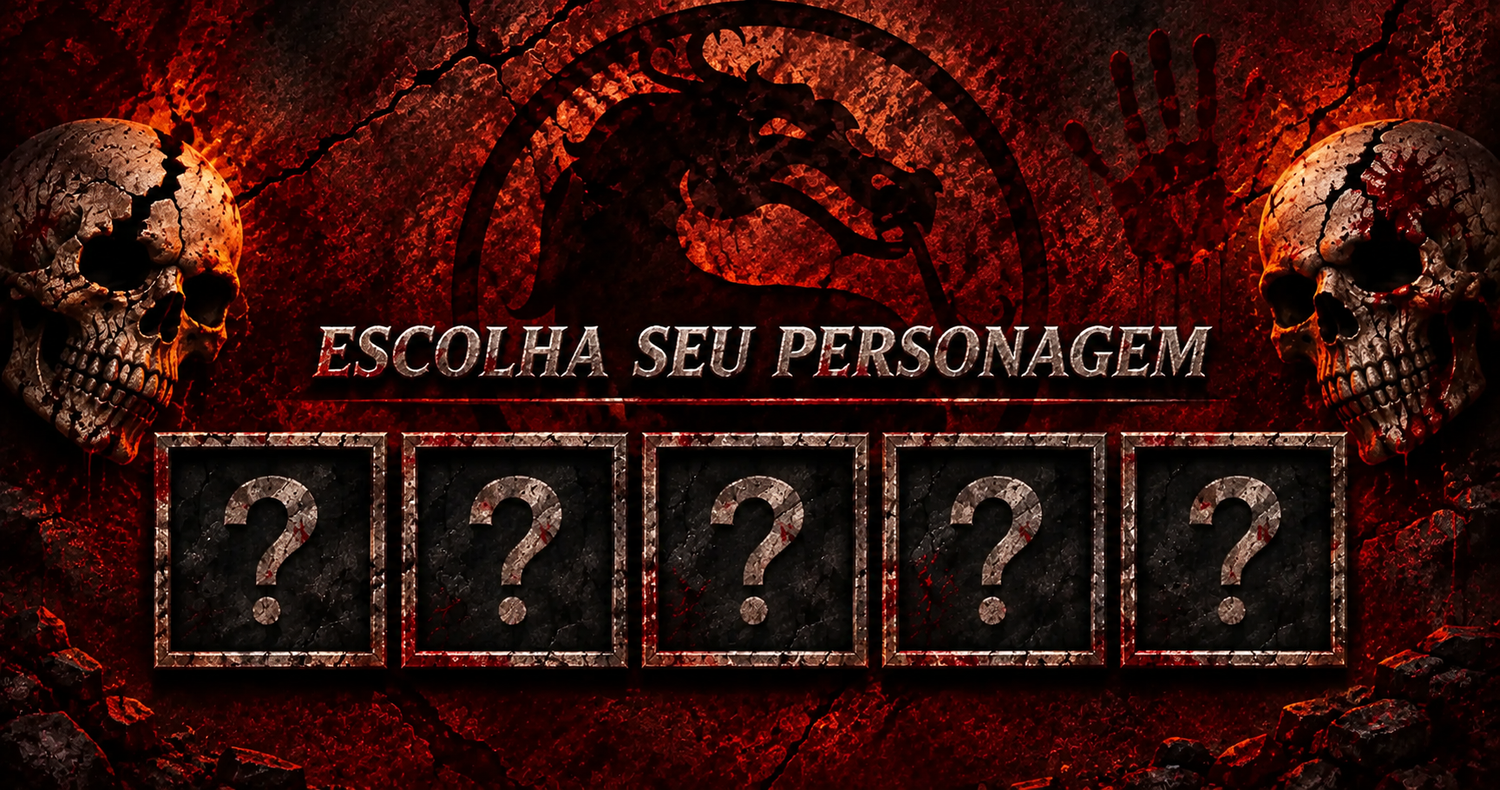
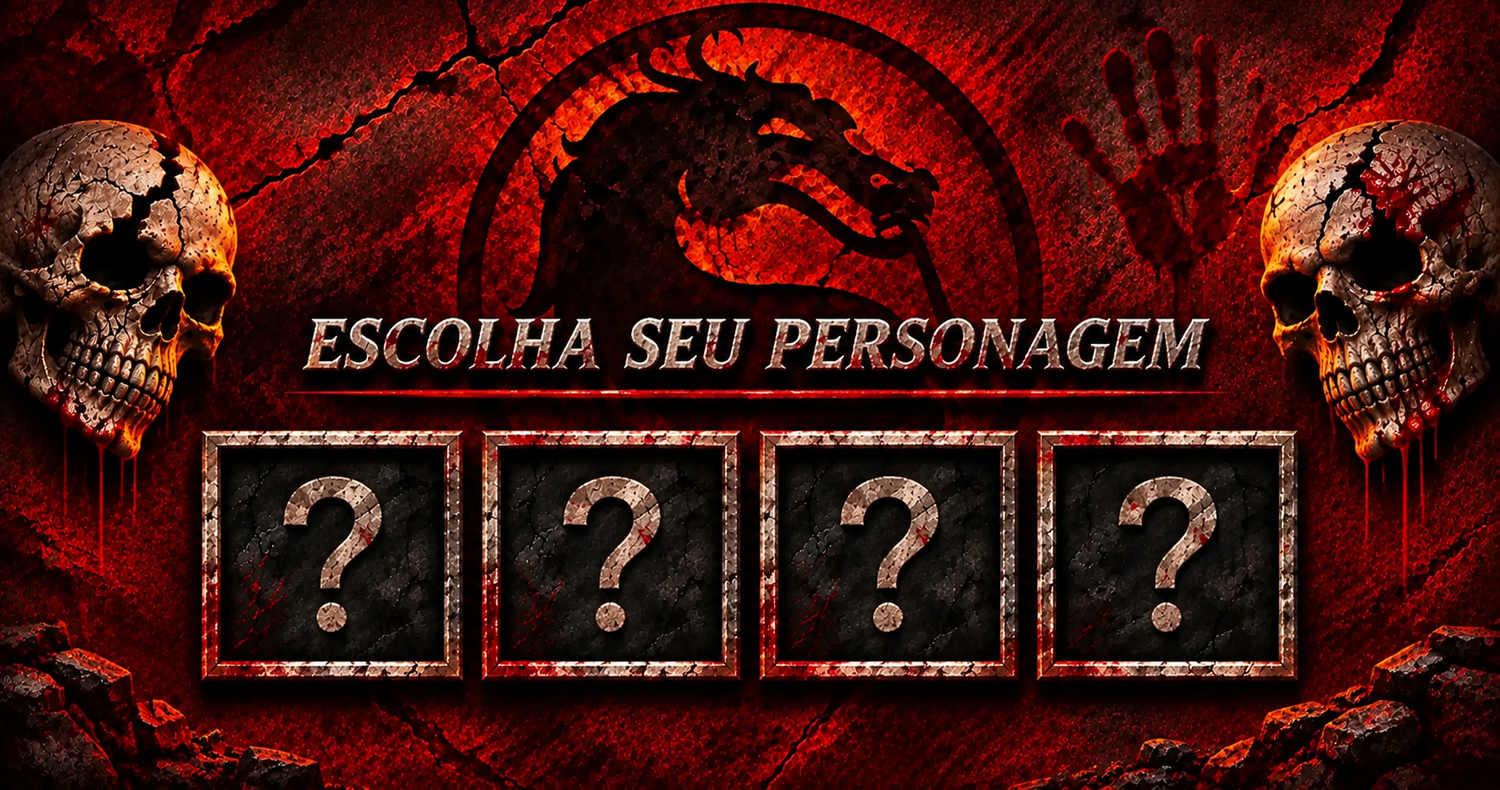
escolha de personagem

diff --git a/jogo.c b/jogo.c
@@ -45,11 +45,26 @@ DrawRectangleLinesEx(borda_sair, ESP_RETANGULO_MENU, RED);
 
 void AtualizarEscolha (EstadoJogo *per){
 
+    
+
 
 }
 
 void DesenharEscolha (const EstadoJogo *pers){
-
+    Rectangle origem = {0, 0, (float)pers->personagens[0].width,(float)pers->personagens[0].height};
+    Rectangle destino = {X_SLOT_1, Y_SLOTS_ESCOLHA, LARGURA_SLOT, ALTURA_SLOT};
     DrawTexture (pers -> imagem_escolha, 0,0, WHITE);
-
+    DrawTexturePro (pers -> personagens[0],origem, destino, (Vector2){0, 0},0 ,WHITE);
+    origem.width = pers->personagens[1].width;
+    origem.height = pers->personagens[1].height;
+    destino.x = X_SLOT_2;
+    DrawTexturePro (pers -> personagens[1],origem, destino, (Vector2){0, 0},0 ,WHITE);
+    origem.width = pers->personagens[2].width;
+    origem.height = pers->personagens[2].height;
+    destino.x = X_SLOT_3;
+    DrawTexturePro (pers -> personagens[2],origem, destino, (Vector2){0, 0},0 ,WHITE);
+    origem.width = pers->personagens[3].width;
+    origem.height = pers->personagens[3].height;
+    destino.x = X_SLOT_4;
+    DrawTexturePro (pers -> personagens[3],origem, destino, (Vector2){0, 0},0 ,WHITE);
 }

diff --git a/main.c b/main.c
@@ -12,6 +12,10 @@ EstadoJogo men = {1, MENU};
 InitWindow(LARGURA_TELA, ALTURA_TELA, "ufrgs_kombat");
 men.imagem = LoadTexture("menu.png");
 men.imagem_escolha = LoadTexture("escolha.png");
+men.personagens[0] = LoadTexture("icons/spider-icon.png");
+men.personagens[1] = LoadTexture("icons/mario-icon.png");
+men.personagens[2] = LoadTexture("icons/bob-icon.png");
+men.personagens[3] = LoadTexture("icons/link-icon.png");
 SetTargetFPS(FPS);
 
 while(!WindowShouldClose() && !(men.quer_sair == 1)){
@@ -38,6 +42,10 @@ while(!WindowShouldClose() && !(men.quer_sair == 1)){
 }
 UnloadTexture (men.imagem);
 UnloadTexture (men.imagem_escolha);
+UnloadTexture (men.personagens[0]);
+UnloadTexture (men.personagens[1]);
+UnloadTexture (men.personagens[2]);
+UnloadTexture (men.personagens[3]);
 CloseWindow();
 
 return 0;

diff --git a/definicoes.h b/definicoes.h
@@ -14,6 +14,15 @@
 #define Y_NOVOJOGO 400
 #define ALTURA_TELA 790
 #define LARGURA_TELA 1500
+#define Y_SLOTS_ESCOLHA 445
+#define LARGURA_SLOT 226
+#define ALTURA_SLOT 217
+//esquerda pra direita
+#define X_SLOT_1 218
+#define X_SLOT_2 498
+#define X_SLOT_3 775
+#define X_SLOT_4 1053
+
 
 
 typedef enum {MENU,ESCOLHA,COMBATE} Tela;
@@ -23,7 +32,7 @@ typedef struct {
     Tela tela_ativa;
     Texture2D imagem;
     int quer_sair;
-    Texture2D personagens[5];
+    Texture2D personagens[4];
     int qual_pers;
     Texture2D imagem_escolha;
 
